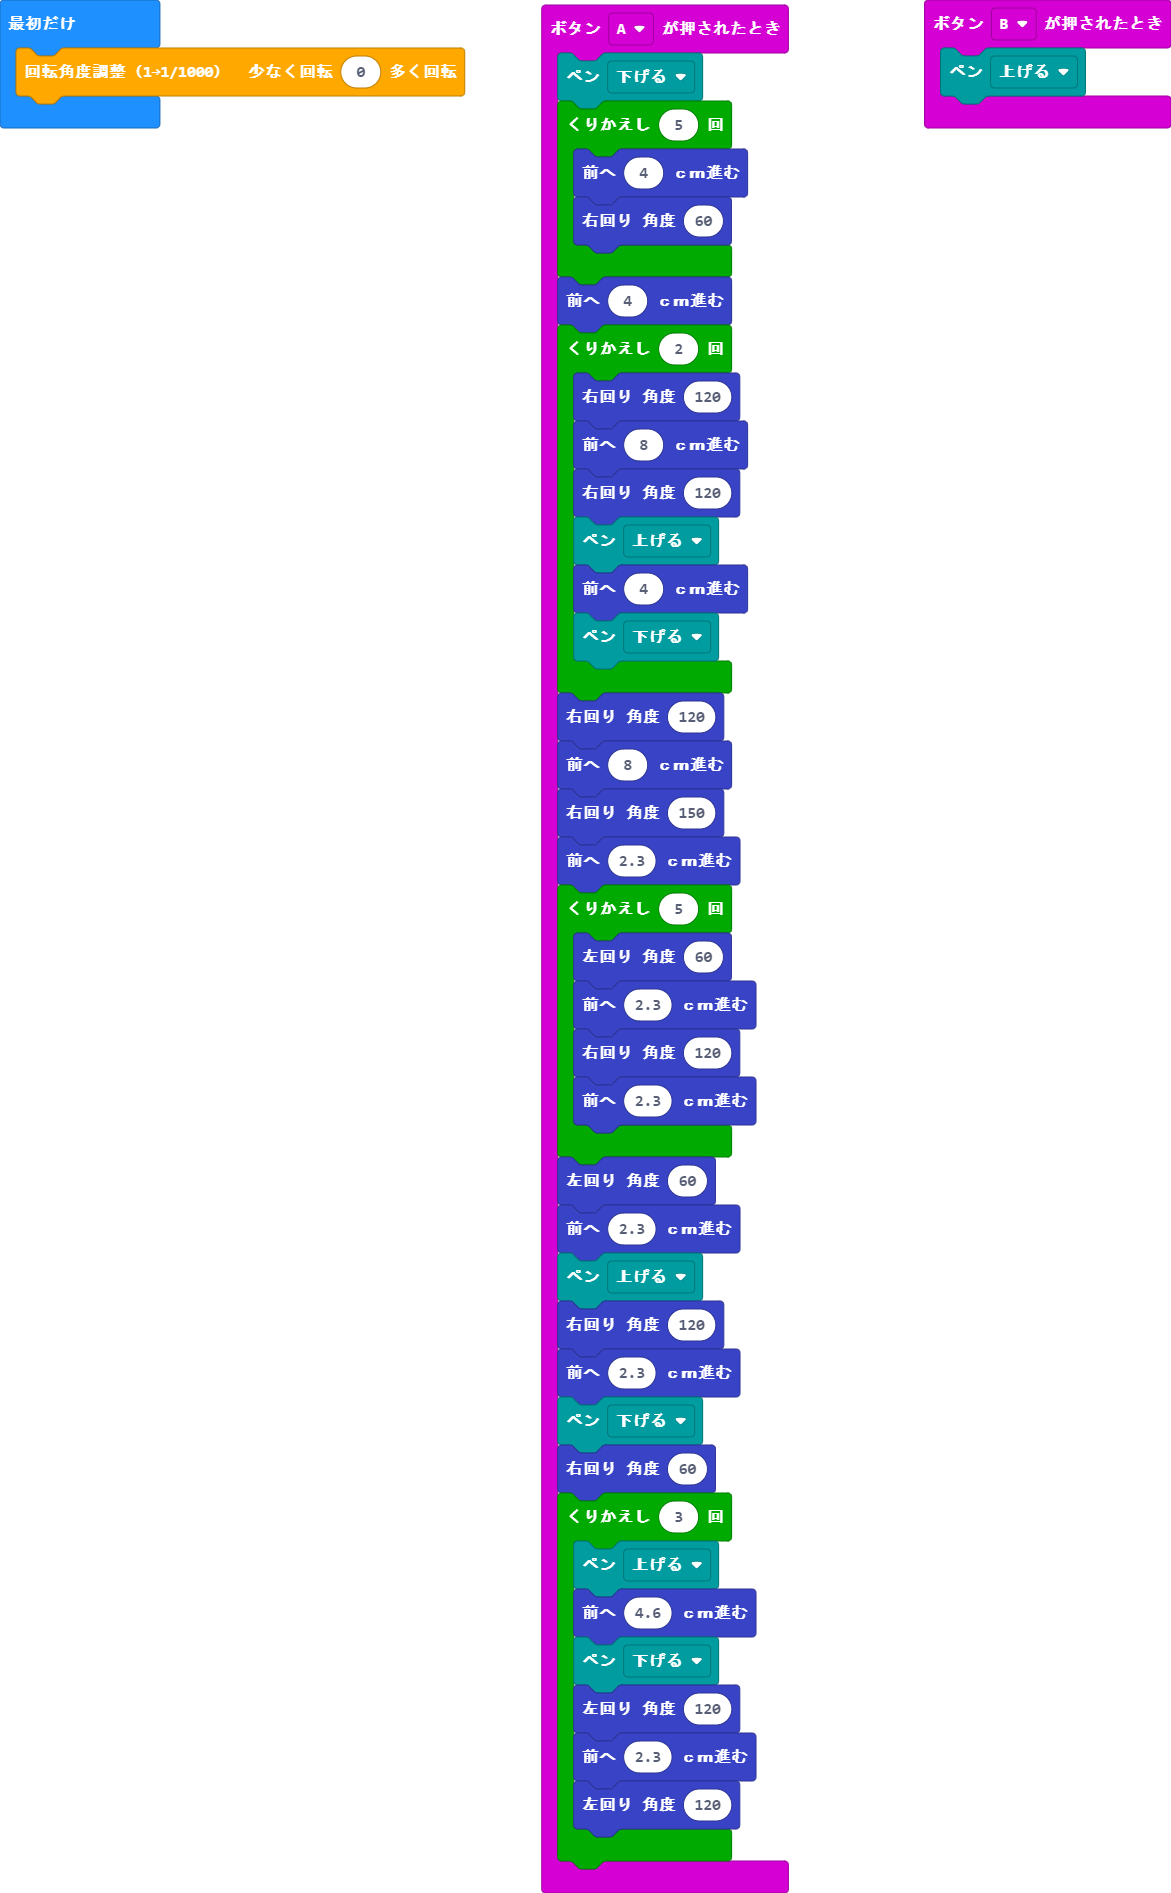
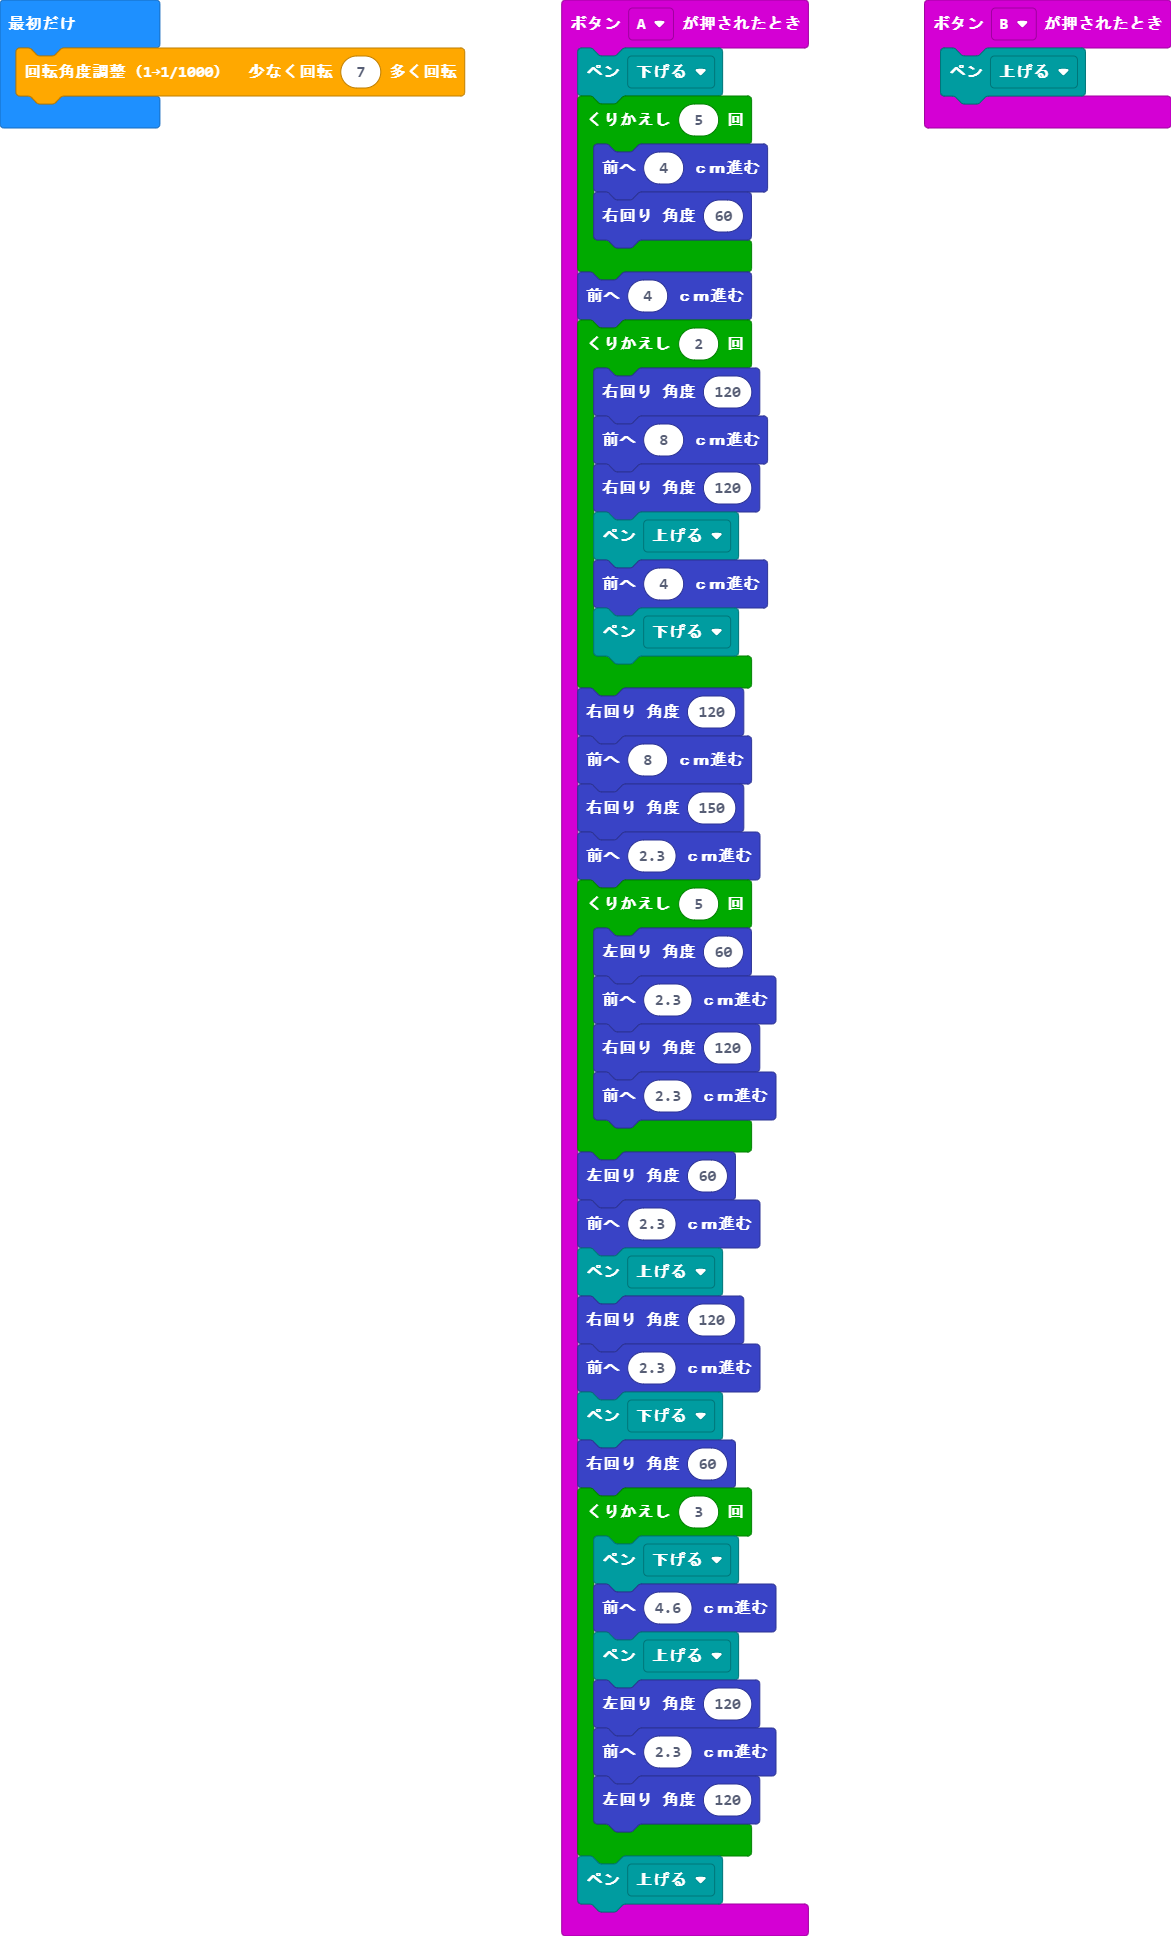
Update main.blocks, main.ts, plottercar_test.ts

diff --git a/main.ts b/main.ts
@@ -1,45 +1,46 @@
 input.onButtonPressed(Button.A, function () {
     eureka_plotter_car.plottercar_pen(pen_onoff.下げる)
     for (let index = 0; index < 5; index++) {
-        eureka_plotter_car.plottercar_1sou_forward(4)
+        eureka_plotter_car.plottercar_forward(4)
         eureka_plotter_car.plottercar_R_cycle(60)
     }
-    eureka_plotter_car.plottercar_1sou_forward(4)
+    eureka_plotter_car.plottercar_forward(4)
     for (let index = 0; index < 2; index++) {
         eureka_plotter_car.plottercar_R_cycle(120)
-        eureka_plotter_car.plottercar_1sou_forward(8)
+        eureka_plotter_car.plottercar_forward(8)
         eureka_plotter_car.plottercar_R_cycle(120)
         eureka_plotter_car.plottercar_pen(pen_onoff.上げる)
-        eureka_plotter_car.plottercar_1sou_forward(4)
+        eureka_plotter_car.plottercar_forward(4)
         eureka_plotter_car.plottercar_pen(pen_onoff.下げる)
     }
     eureka_plotter_car.plottercar_R_cycle(120)
-    eureka_plotter_car.plottercar_1sou_forward(8)
+    eureka_plotter_car.plottercar_forward(8)
     eureka_plotter_car.plottercar_R_cycle(150)
-    eureka_plotter_car.plottercar_1sou_forward(2.3)
+    eureka_plotter_car.plottercar_forward(2.3)
     for (let index = 0; index < 5; index++) {
         eureka_plotter_car.plottercar_L_cycle(60)
-        eureka_plotter_car.plottercar_1sou_forward(2.3)
+        eureka_plotter_car.plottercar_forward(2.3)
         eureka_plotter_car.plottercar_R_cycle(120)
-        eureka_plotter_car.plottercar_1sou_forward(2.3)
+        eureka_plotter_car.plottercar_forward(2.3)
     }
     eureka_plotter_car.plottercar_L_cycle(60)
-    eureka_plotter_car.plottercar_1sou_forward(2.3)
+    eureka_plotter_car.plottercar_forward(2.3)
     eureka_plotter_car.plottercar_pen(pen_onoff.上げる)
     eureka_plotter_car.plottercar_R_cycle(120)
-    eureka_plotter_car.plottercar_1sou_forward(2.3)
+    eureka_plotter_car.plottercar_forward(2.3)
     eureka_plotter_car.plottercar_pen(pen_onoff.下げる)
     eureka_plotter_car.plottercar_R_cycle(60)
     for (let index = 0; index < 3; index++) {
-        eureka_plotter_car.plottercar_pen(pen_onoff.上げる)
-        eureka_plotter_car.plottercar_1sou_forward(4.6)
         eureka_plotter_car.plottercar_pen(pen_onoff.下げる)
+        eureka_plotter_car.plottercar_forward(4.6)
+        eureka_plotter_car.plottercar_pen(pen_onoff.上げる)
         eureka_plotter_car.plottercar_L_cycle(120)
-        eureka_plotter_car.plottercar_1sou_forward(2.3)
+        eureka_plotter_car.plottercar_forward(2.3)
         eureka_plotter_car.plottercar_L_cycle(120)
     }
+    eureka_plotter_car.plottercar_pen(pen_onoff.上げる)
 })
 input.onButtonPressed(Button.B, function () {
     eureka_plotter_car.plottercar_pen(pen_onoff.上げる)
 })
-eureka_plotter_car.plotter_degree(0)
+eureka_plotter_car.plotter_degree(7)

diff --git a/plottercar_test.ts b/plottercar_test.ts
@@ -109,8 +109,9 @@ namespace eureka_plotter_car {
       {
       }
 
-    }
+    
     F_hasuu=(((F_cm * 512) / (18.9*cond_Distance) )+F_hasuu)-Math.floor(((F_cm * 512) / (18.9*cond_Distance) )+F_hasuu)
+    }
   }
 
 
@@ -167,8 +168,9 @@ namespace eureka_plotter_car {
       {
       }    
 
-    }
+    
     B_hasuu=(((F_cm *512) / (18.9*cond_Distance)+B_hasuu) % 1 )
+    }
   }
 
 
@@ -272,8 +274,9 @@ namespace eureka_plotter_car {
       for (i = 0; i < 1000; i++);
       {
       }
-    }
+
     L_hasuu =(((512 * 1.62 * cond_degree * (L_degree / 360) )+L_hasuu) % 1);
+    }
   }
 
 
@@ -379,8 +382,9 @@ namespace eureka_plotter_car {
       for (i = 0; i < 1000; i++);
       {
       }
-    }
+    
     R_hasuu =(((512 * 1.62 * cond_degree*(R_degree / 360) )+L_hasuu) % 1); 
+    }
   }
 
   //% color="#ff4940" weight=71　blockId=plottercar_rest
